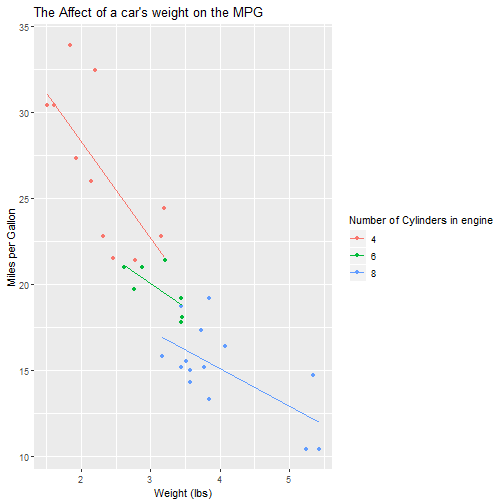
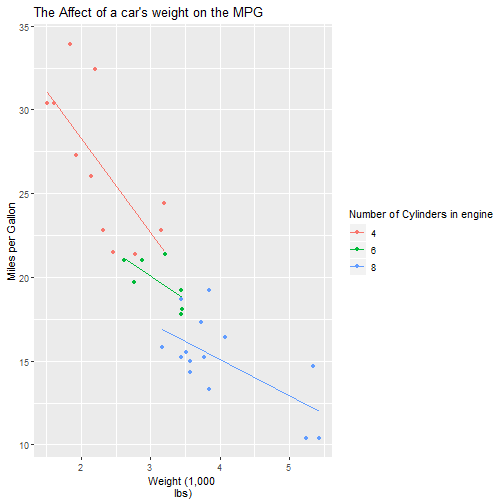
pkgdown png and html files

diff --git a/ggLinearModel/docs/articles/ggLinearModel.html b/ggLinearModel/docs/articles/ggLinearModel.html
@@ -1,0 +1,239 @@
+<!DOCTYPE html>
+<!-- Generated by pkgdown: do not edit by hand --><html lang="en">
+<head>
+<meta http-equiv="Content-Type" content="text/html; charset=UTF-8">
+<meta charset="utf-8">
+<meta http-equiv="X-UA-Compatible" content="IE=edge">
+<meta name="viewport" content="width=device-width, initial-scale=1.0">
+<title>ggLinearModel • ggLinearModel</title>
+<!-- jquery --><script src="https://cdnjs.cloudflare.com/ajax/libs/jquery/3.3.1/jquery.min.js" integrity="sha256-FgpCb/KJQlLNfOu91ta32o/NMZxltwRo8QtmkMRdAu8=" crossorigin="anonymous"></script><!-- Bootstrap --><link rel="stylesheet" href="https://cdnjs.cloudflare.com/ajax/libs/twitter-bootstrap/3.3.7/css/bootstrap.min.css" integrity="sha256-916EbMg70RQy9LHiGkXzG8hSg9EdNy97GazNG/aiY1w=" crossorigin="anonymous">
+<script src="https://cdnjs.cloudflare.com/ajax/libs/twitter-bootstrap/3.3.7/js/bootstrap.min.js" integrity="sha256-U5ZEeKfGNOja007MMD3YBI0A3OSZOQbeG6z2f2Y0hu8=" crossorigin="anonymous"></script><!-- Font Awesome icons --><link rel="stylesheet" href="https://cdnjs.cloudflare.com/ajax/libs/font-awesome/5.7.1/css/all.min.css" integrity="sha256-nAmazAk6vS34Xqo0BSrTb+abbtFlgsFK7NKSi6o7Y78=" crossorigin="anonymous">
+<link rel="stylesheet" href="https://cdnjs.cloudflare.com/ajax/libs/font-awesome/5.7.1/css/v4-shims.min.css" integrity="sha256-6qHlizsOWFskGlwVOKuns+D1nB6ssZrHQrNj1wGplHc=" crossorigin="anonymous">
+<!-- clipboard.js --><script src="https://cdnjs.cloudflare.com/ajax/libs/clipboard.js/2.0.4/clipboard.min.js" integrity="sha256-FiZwavyI2V6+EXO1U+xzLG3IKldpiTFf3153ea9zikQ=" crossorigin="anonymous"></script><!-- headroom.js --><script src="https://cdnjs.cloudflare.com/ajax/libs/headroom/0.9.4/headroom.min.js" integrity="sha256-DJFC1kqIhelURkuza0AvYal5RxMtpzLjFhsnVIeuk+U=" crossorigin="anonymous"></script><script src="https://cdnjs.cloudflare.com/ajax/libs/headroom/0.9.4/jQuery.headroom.min.js" integrity="sha256-ZX/yNShbjqsohH1k95liqY9Gd8uOiE1S4vZc+9KQ1K4=" crossorigin="anonymous"></script><!-- pkgdown --><link href="../pkgdown.css" rel="stylesheet">
+<script src="../pkgdown.js"></script><meta property="og:title" content="ggLinearModel">
+<meta property="og:description" content="">
+<meta name="twitter:card" content="summary">
+<!-- mathjax --><script src="https://cdnjs.cloudflare.com/ajax/libs/mathjax/2.7.5/MathJax.js" integrity="sha256-nvJJv9wWKEm88qvoQl9ekL2J+k/RWIsaSScxxlsrv8k=" crossorigin="anonymous"></script><script src="https://cdnjs.cloudflare.com/ajax/libs/mathjax/2.7.5/config/TeX-AMS-MML_HTMLorMML.js" integrity="sha256-84DKXVJXs0/F8OTMzX4UR909+jtl4G7SPypPavF+GfA=" crossorigin="anonymous"></script><!--[if lt IE 9]>
+<script src="https://oss.maxcdn.com/html5shiv/3.7.3/html5shiv.min.js"></script>
+<script src="https://oss.maxcdn.com/respond/1.4.2/respond.min.js"></script>
+<![endif]-->
+</head>
+<body>
+    <div class="container template-article">
+      <header><div class="navbar navbar-default navbar-fixed-top" role="navigation">
+  <div class="container">
+    <div class="navbar-header">
+      <button type="button" class="navbar-toggle collapsed" data-toggle="collapse" data-target="#navbar" aria-expanded="false">
+        <span class="sr-only">Toggle navigation</span>
+        <span class="icon-bar"></span>
+        <span class="icon-bar"></span>
+        <span class="icon-bar"></span>
+      </button>
+      <span class="navbar-brand">
+        <a class="navbar-link" href="../index.html">ggLinearModel</a>
+        <span class="version label label-default" data-toggle="tooltip" data-placement="bottom" title="Released version">0.1.0</span>
+      </span>
+    </div>
+
+    <div id="navbar" class="navbar-collapse collapse">
+      <ul class="nav navbar-nav">
+<li>
+  <a href="../index.html">
+    <span class="fas fa fas fa-home fa-lg"></span>
+     
+  </a>
+</li>
+<li>
+  <a href="../articles/ggLinearModel.html">Get started</a>
+</li>
+<li>
+  <a href="../reference/index.html">Reference</a>
+</li>
+      </ul>
+<ul class="nav navbar-nav navbar-right"></ul>
+</div>
+<!--/.nav-collapse -->
+  </div>
+<!--/.container -->
+</div>
+<!--/.navbar -->
+
+      
+
+      </header><div class="row">
+  <div class="col-md-9 contents">
+    <div class="page-header toc-ignore">
+      <h1>ggLinearModel</h1>
+                        <h4 class="author">Jack Langston</h4>
+            
+            <h4 class="date">2019-08-12</h4>
+      
+      
+      <div class="hidden name"><code>ggLinearModel.Rmd</code></div>
+
+    </div>
+
+    
+    
+<div id="gglinearmodel" class="section level1">
+<h1 class="hasAnchor">
+<a href="#gglinearmodel" class="anchor"></a>ggLinearModel</h1>
+<p><code>ggLinearModel</code> is a package designed to create easy linear model visualizations in one simple step. Using the <code>ggLinearModel</code> function you can create lots of different types of linear models, including models with:</p>
+<ul>
+<li>the same slope</li>
+<li>the same intercept</li>
+<li>polynomial predictors</li>
+<li>varying number of interaction effects</li>
+<li>confidence, and prediction, intervals, with the ability to change the confidence level</li>
+<li>interactive features to show the equation for LSRL or information about a specific data point.</li>
+</ul>
+</div>
+<div id="old-vs--new" class="section level1">
+<h1 class="hasAnchor">
+<a href="#old-vs--new" class="anchor"></a>Old vs. New</h1>
+<p>Although creating plots in R is super easy thanks to the creation of <code>ggplot()</code>, adding multiple different items to a plot can be complex, and require lots of code. In this section you can view the differences in code required to create different types of linear models and then visualize them.</p>
+<div id="the-full-model" class="section level3">
+<h3 class="hasAnchor">
+<a href="#the-full-model" class="anchor"></a>The full model</h3>
+<p>This model is the easiest to code in <code>ggplot()</code>, the most important part is the <code>geom_smooth(method = lm, ...)</code> which insures that graph adds the least squares regression lines for each category. Using <code><a href="../reference/ggLinearModel.html">ggLinearModel()</a></code> we just input our data table, x variable, y variable, and categorical variable to create the same graph in much less code.</p>
+<div class="sourceCode" id="cb1"><pre class="sourceCode r"><code class="sourceCode r"><span id="cb1-1"><a href="#cb1-1"></a><span class="kw">ggplot</span>(<span class="dt">data =</span> iris, <span class="kw">aes</span>(<span class="dt">x =</span> Sepal.Length, <span class="dt">y =</span> Sepal.Width, <span class="dt">col =</span> Species)) <span class="op">+</span><span class="st"> </span></span>
+<span id="cb1-2"><a href="#cb1-2"></a><span class="st">    </span><span class="kw">geom_point</span>() <span class="op">+</span></span>
+<span id="cb1-3"><a href="#cb1-3"></a><span class="st">    </span><span class="kw">geom_smooth</span>(<span class="dt">method =</span> lm, <span class="dt">se =</span> <span class="ot">FALSE</span>)</span></code></pre></div>
+<p><img src="ggLinearModel_files/figure-html/unnamed-chunk-1-1.png" width="700"></p>
+<div class="sourceCode" id="cb2"><pre class="sourceCode r"><code class="sourceCode r"><span id="cb2-1"><a href="#cb2-1"></a><span class="co">#ggLinearModel(iris, Sepal.Length, Sepal.Width, Species)</span></span></code></pre></div>
+</div>
+<div id="same-slope-model" class="section level3">
+<h3 class="hasAnchor">
+<a href="#same-slope-model" class="anchor"></a>Same slope model</h3>
+<p>Now let’s assume that you want to create a visualization that shows the regression estimates as lines with the same slope, ergo, when there no interaction effect involved. In <code>ggplot()</code> we have no easy way to do this. We must first create model, and instead of one <code>geom_smooth()</code> we must add a new <code>geom_abline()</code> for each level in the dataset, with each <code>geom_abline()</code> having different inputs for the intercept parameter. This is going to get messy quickly with lots of levels in your categorical variable. Using <code><a href="../reference/ggLinearModel.html">ggLinearModel(..., same_slope = TRUE)</a></code> will get the same process done in much less code, and prevents you from making any mistakes when creating each individual <code>geom_abline()</code></p>
+<div class="sourceCode" id="cb3"><pre class="sourceCode r"><code class="sourceCode r"><span id="cb3-1"><a href="#cb3-1"></a>model &lt;-<span class="st"> </span><span class="kw"><a href="https://rdrr.io/r/stats/lm.html">lm</a></span>(Sepal.Width <span class="op">~</span><span class="st"> </span>Sepal.Length <span class="op">+</span><span class="st"> </span>Species, <span class="dt">data =</span> iris)</span>
+<span id="cb3-2"><a href="#cb3-2"></a>m &lt;-<span class="st"> </span>model<span class="op">$</span>coefficients[<span class="dv">2</span>] <span class="co">#slope of model</span></span>
+<span id="cb3-3"><a href="#cb3-3"></a>b &lt;-<span class="st"> </span>model<span class="op">$</span>coefficients[<span class="dv">1</span>] <span class="co">#setosa intercept</span></span>
+<span id="cb3-4"><a href="#cb3-4"></a><span class="kw">ggplot</span>() <span class="op">+</span><span class="st"> </span></span>
+<span id="cb3-5"><a href="#cb3-5"></a><span class="st">    </span><span class="kw">geom_point</span>(<span class="dt">data =</span> iris, <span class="kw">aes</span>(<span class="dt">x =</span> Sepal.Length, <span class="dt">y =</span> Sepal.Width, <span class="dt">col =</span> Species)) <span class="op">+</span></span>
+<span id="cb3-6"><a href="#cb3-6"></a><span class="st">    </span><span class="kw">geom_abline</span>(<span class="kw">aes</span>(<span class="dt">slope =</span> m,</span>
+<span id="cb3-7"><a href="#cb3-7"></a>                <span class="dt">intercept =</span> b, </span>
+<span id="cb3-8"><a href="#cb3-8"></a>                <span class="dt">color =</span> <span class="st">'setosa'</span>)) <span class="op">+</span></span>
+<span id="cb3-9"><a href="#cb3-9"></a><span class="st">    </span><span class="kw">geom_abline</span>(<span class="kw">aes</span>(<span class="dt">slope =</span> m, </span>
+<span id="cb3-10"><a href="#cb3-10"></a>                <span class="dt">intercept =</span> b <span class="op">+</span><span class="st"> </span>model<span class="op">$</span>coefficients[<span class="dv">3</span>], </span>
+<span id="cb3-11"><a href="#cb3-11"></a>                <span class="dt">color =</span> <span class="st">'versicolor'</span>)) <span class="op">+</span></span>
+<span id="cb3-12"><a href="#cb3-12"></a><span class="st">    </span><span class="kw">geom_abline</span>(<span class="kw">aes</span>(<span class="dt">slope =</span> m, </span>
+<span id="cb3-13"><a href="#cb3-13"></a>                <span class="dt">intercept =</span> b <span class="op">+</span><span class="st"> </span>model<span class="op">$</span>coefficients[<span class="dv">4</span>], </span>
+<span id="cb3-14"><a href="#cb3-14"></a>                <span class="dt">color =</span> <span class="st">'virginica'</span>))</span></code></pre></div>
+<p><img src="ggLinearModel_files/figure-html/unnamed-chunk-2-1.png" width="700"></p>
+<div class="sourceCode" id="cb4"><pre class="sourceCode r"><code class="sourceCode r"><span id="cb4-1"><a href="#cb4-1"></a><span class="co">#ggLinearModel(iris, Sepal.Length, Sepal.Width, Species, same_slope = TRUE)</span></span></code></pre></div>
+</div>
+<div id="same-intercept-model" class="section level3">
+<h3 class="hasAnchor">
+<a href="#same-intercept-model" class="anchor"></a>Same intercept model</h3>
+<p>Creating a graph which showcases the data sharing a intercept, but differing slopes, as seen in model with an interaction effect, but not a categorical effect, is complex in <code>ggplot()</code>, but easy in <code><a href="../reference/ggLinearModel.html">ggLinearModel()</a></code> by just adding the <code>same_intercept = TRUE</code> parameter.</p>
+<div class="sourceCode" id="cb5"><pre class="sourceCode r"><code class="sourceCode r"><span id="cb5-1"><a href="#cb5-1"></a>model &lt;-<span class="st"> </span><span class="kw"><a href="https://rdrr.io/r/stats/lm.html">lm</a></span>(Sepal.Width <span class="op">~</span><span class="st"> </span>Sepal.Length <span class="op">+</span><span class="st"> </span>Sepal.Length<span class="op">:</span>Species, <span class="dt">data =</span> iris)</span>
+<span id="cb5-2"><a href="#cb5-2"></a>b &lt;-<span class="st"> </span>model<span class="op">$</span>coefficients[<span class="dv">1</span>] <span class="co">#intercept of model</span></span>
+<span id="cb5-3"><a href="#cb5-3"></a>m &lt;-<span class="st"> </span>model<span class="op">$</span>coefficients[<span class="dv">2</span>] <span class="co">#slope</span></span>
+<span id="cb5-4"><a href="#cb5-4"></a><span class="kw">ggplot</span>(<span class="dt">data =</span> iris, <span class="kw">aes</span>(<span class="dt">x =</span> Sepal.Length, <span class="dt">y =</span> Sepal.Width, <span class="dt">col =</span> Species)) <span class="op">+</span><span class="st"> </span></span>
+<span id="cb5-5"><a href="#cb5-5"></a><span class="st">    </span><span class="kw">geom_point</span>() <span class="op">+</span></span>
+<span id="cb5-6"><a href="#cb5-6"></a><span class="st">    </span><span class="kw">geom_abline</span>(<span class="kw">aes</span>(<span class="dt">intercept =</span> b,</span>
+<span id="cb5-7"><a href="#cb5-7"></a>                    <span class="dt">slope =</span> m,</span>
+<span id="cb5-8"><a href="#cb5-8"></a>                    <span class="dt">color =</span> <span class="st">'setosa'</span>)) <span class="op">+</span></span>
+<span id="cb5-9"><a href="#cb5-9"></a><span class="st">    </span><span class="kw">geom_abline</span>(<span class="kw">aes</span>(<span class="dt">slope =</span> m <span class="op">+</span><span class="st"> </span>model<span class="op">$</span>coefficients[<span class="dv">3</span>], </span>
+<span id="cb5-10"><a href="#cb5-10"></a>                    <span class="dt">intercept =</span> b,</span>
+<span id="cb5-11"><a href="#cb5-11"></a>                    <span class="dt">color =</span> <span class="st">'versicolor'</span>)) <span class="op">+</span></span>
+<span id="cb5-12"><a href="#cb5-12"></a><span class="st">    </span><span class="kw">geom_abline</span>(<span class="kw">aes</span>(<span class="dt">slope =</span> m <span class="op">+</span><span class="st"> </span>model<span class="op">$</span>coefficients[<span class="dv">4</span>], </span>
+<span id="cb5-13"><a href="#cb5-13"></a>                    <span class="dt">intercept =</span> b,</span>
+<span id="cb5-14"><a href="#cb5-14"></a>                    <span class="dt">col =</span> <span class="st">'virginica'</span>))</span></code></pre></div>
+<p><img src="ggLinearModel_files/figure-html/unnamed-chunk-3-1.png" width="700"></p>
+<div class="sourceCode" id="cb6"><pre class="sourceCode r"><code class="sourceCode r"><span id="cb6-1"><a href="#cb6-1"></a><span class="co">#ggLinearModel(iris, Sepal.Length, Sepal.Width, Species, same_intercept = TRUE)</span></span></code></pre></div>
+</div>
+<div id="polynomial-model" class="section level3">
+<h3 class="hasAnchor">
+<a href="#polynomial-model" class="anchor"></a>Polynomial model</h3>
+<p>Using <code><a href="../reference/ggLinearModel.html">ggLinearModel()</a></code> you can make models with any number of polynomial predictors, and with any number of interactions.</p>
+<div class="sourceCode" id="cb7"><pre class="sourceCode r"><code class="sourceCode r"><span id="cb7-1"><a href="#cb7-1"></a>mpg<span class="op">$</span>year &lt;-<span class="st"> </span><span class="kw"><a href="https://rdrr.io/r/base/factor.html">as.factor</a></span>(<span class="kw"><a href="https://rdrr.io/r/base/character.html">as.character</a></span>(mpg<span class="op">$</span>year))</span>
+<span id="cb7-2"><a href="#cb7-2"></a>model &lt;-<span class="st"> </span><span class="kw"><a href="https://rdrr.io/r/stats/lm.html">lm</a></span>(hwy <span class="op">~</span><span class="st"> </span>displ <span class="op">+</span><span class="st"> </span><span class="kw"><a href="https://rdrr.io/r/base/AsIs.html">I</a></span>(displ<span class="op">^</span><span class="dv">2</span>) <span class="op">+</span><span class="st"> </span>displ<span class="op">:</span>year <span class="op">+</span><span class="st"> </span><span class="kw"><a href="https://rdrr.io/r/base/AsIs.html">I</a></span>(displ<span class="op">^</span><span class="dv">2</span>)<span class="op">:</span>year, <span class="dt">data =</span> mpg)</span>
+<span id="cb7-3"><a href="#cb7-3"></a></span>
+<span id="cb7-4"><a href="#cb7-4"></a><span class="kw">ggplot</span>(<span class="dt">data =</span> mpg, <span class="kw">aes</span>(<span class="dt">x =</span> displ, <span class="dt">y =</span> hwy, <span class="dt">col =</span> year)) <span class="op">+</span></span>
+<span id="cb7-5"><a href="#cb7-5"></a><span class="st">    </span><span class="kw">geom_point</span>() <span class="op">+</span></span>
+<span id="cb7-6"><a href="#cb7-6"></a><span class="st">    </span><span class="kw">stat_function</span>(<span class="dt">fun=</span><span class="cf">function</span>(x) </span>
+<span id="cb7-7"><a href="#cb7-7"></a>        model<span class="op">$</span>coefficients[<span class="dv">1</span>] <span class="op">+</span><span class="st"> </span>model<span class="op">$</span>coefficients[<span class="dv">2</span>]<span class="op">*</span>x <span class="op">+</span><span class="st"> </span></span>
+<span id="cb7-8"><a href="#cb7-8"></a><span class="st">            </span>model<span class="op">$</span>coefficients[<span class="dv">3</span>]<span class="op">*</span>x<span class="op">^</span><span class="dv">2</span>, </span>
+<span id="cb7-9"><a href="#cb7-9"></a>        <span class="kw">aes</span>(<span class="dt">col =</span> <span class="st">'1999'</span>)) <span class="op">+</span><span class="st"> </span></span>
+<span id="cb7-10"><a href="#cb7-10"></a><span class="st">    </span><span class="kw">stat_function</span>(<span class="dt">fun=</span><span class="cf">function</span>(x) </span>
+<span id="cb7-11"><a href="#cb7-11"></a>        model<span class="op">$</span>coefficients[<span class="dv">1</span>] <span class="op">+</span><span class="st"> </span>model<span class="op">$</span>coefficients[<span class="dv">2</span>]<span class="op">*</span>x <span class="op">+</span><span class="st"> </span></span>
+<span id="cb7-12"><a href="#cb7-12"></a><span class="st">            </span><span class="kw"><a href="https://rdrr.io/r/base/AsIs.html">I</a></span>(x<span class="op">^</span><span class="dv">2</span>)<span class="op">*</span>model<span class="op">$</span>coefficients[<span class="dv">5</span>]<span class="op">+</span>model<span class="op">$</span>coefficients[<span class="dv">3</span>]<span class="op">*</span>x<span class="op">^</span><span class="dv">2</span> <span class="op">+</span><span class="st"> </span>model<span class="op">$</span>coefficients[<span class="dv">4</span>]<span class="op">*</span>x, </span>
+<span id="cb7-13"><a href="#cb7-13"></a>        <span class="kw">aes</span>(<span class="dt">col =</span> <span class="st">'2008'</span>))</span></code></pre></div>
+<p><img src="ggLinearModel_files/figure-html/unnamed-chunk-4-1.png" width="700"></p>
+<div class="sourceCode" id="cb8"><pre class="sourceCode r"><code class="sourceCode r"><span id="cb8-1"><a href="#cb8-1"></a><span class="co">#ggLinearModel(mpg, displ, hwy, year, poly = 2)</span></span></code></pre></div>
+</div>
+<div id="polynomial-model-with-fewer-interactions" class="section level3">
+<h3 class="hasAnchor">
+<a href="#polynomial-model-with-fewer-interactions" class="anchor"></a>polynomial model with fewer interactions</h3>
+<div class="sourceCode" id="cb9"><pre class="sourceCode r"><code class="sourceCode r"><span id="cb9-1"><a href="#cb9-1"></a>model &lt;-<span class="st"> </span><span class="kw"><a href="https://rdrr.io/r/stats/lm.html">lm</a></span>(hwy <span class="op">~</span><span class="st"> </span>displ <span class="op">+</span><span class="st"> </span><span class="kw"><a href="https://rdrr.io/r/base/AsIs.html">I</a></span>(displ<span class="op">^</span><span class="dv">2</span>) <span class="op">+</span><span class="st"> </span>displ<span class="op">:</span>year, <span class="dt">data =</span> mpg)</span>
+<span id="cb9-2"><a href="#cb9-2"></a></span>
+<span id="cb9-3"><a href="#cb9-3"></a><span class="kw">ggplot</span>(<span class="dt">data =</span> mpg, <span class="kw">aes</span>(<span class="dt">x =</span> displ, <span class="dt">y =</span> hwy, <span class="dt">col =</span> year)) <span class="op">+</span></span>
+<span id="cb9-4"><a href="#cb9-4"></a><span class="st">    </span><span class="kw">geom_point</span>() <span class="op">+</span></span>
+<span id="cb9-5"><a href="#cb9-5"></a><span class="st">    </span><span class="kw">stat_function</span>(<span class="dt">fun=</span><span class="cf">function</span>(x) </span>
+<span id="cb9-6"><a href="#cb9-6"></a>        model<span class="op">$</span>coefficients[<span class="dv">1</span>] <span class="op">+</span><span class="st"> </span>model<span class="op">$</span>coefficients[<span class="dv">2</span>]<span class="op">*</span>x <span class="op">+</span><span class="st"> </span></span>
+<span id="cb9-7"><a href="#cb9-7"></a><span class="st">            </span>model<span class="op">$</span>coefficients[<span class="dv">3</span>]<span class="op">*</span>x<span class="op">^</span><span class="dv">2</span>, </span>
+<span id="cb9-8"><a href="#cb9-8"></a>        <span class="kw">aes</span>(<span class="dt">col =</span> <span class="st">'1999'</span>)) <span class="op">+</span><span class="st"> </span></span>
+<span id="cb9-9"><a href="#cb9-9"></a><span class="st">    </span><span class="kw">stat_function</span>(<span class="dt">fun=</span><span class="cf">function</span>(x) </span>
+<span id="cb9-10"><a href="#cb9-10"></a>        model<span class="op">$</span>coefficients[<span class="dv">1</span>] <span class="op">+</span><span class="st"> </span>model<span class="op">$</span>coefficients[<span class="dv">2</span>]<span class="op">*</span>x <span class="op">+</span><span class="st"> </span></span>
+<span id="cb9-11"><a href="#cb9-11"></a><span class="st">            </span><span class="kw"><a href="https://rdrr.io/r/base/AsIs.html">I</a></span>(x<span class="op">^</span><span class="dv">2</span>)<span class="op">*</span>model<span class="op">$</span>coefficients[<span class="dv">3</span>] <span class="op">+</span><span class="st"> </span>model<span class="op">$</span>coefficients[<span class="dv">4</span>]<span class="op">*</span>x, </span>
+<span id="cb9-12"><a href="#cb9-12"></a>        <span class="kw">aes</span>(<span class="dt">col =</span> <span class="st">'2008'</span>))</span></code></pre></div>
+<p><img src="ggLinearModel_files/figure-html/unnamed-chunk-5-1.png" width="700"></p>
+<div class="sourceCode" id="cb10"><pre class="sourceCode r"><code class="sourceCode r"><span id="cb10-1"><a href="#cb10-1"></a><span class="co">#ggLinearModel(mpg, displ, hwy, year, poly = 2, interactions = 1)</span></span></code></pre></div>
+</div>
+</div>
+<div id="added-features" class="section level1">
+<h1 class="hasAnchor">
+<a href="#added-features" class="anchor"></a>Added Features</h1>
+<div id="confidence-interval-and-prediction-interval" class="section level3">
+<h3 class="hasAnchor">
+<a href="#confidence-interval-and-prediction-interval" class="anchor"></a>confidence interval and prediction interval</h3>
+<p>Setting ci or pi to TRUE will add a confidence interval, and setting level to a number between 0 and 1 will change the confidence level of the interval.</p>
+<div class="sourceCode" id="cb11"><pre class="sourceCode r"><code class="sourceCode r"><span id="cb11-1"><a href="#cb11-1"></a><span class="co">#ggLinearModel(CO2, conc, uptake, Type, ci = T)</span></span>
+<span id="cb11-2"><a href="#cb11-2"></a><span class="co">#ggLinearModel(CO2, conc, uptake, Type, pi = T)</span></span>
+<span id="cb11-3"><a href="#cb11-3"></a><span class="co">#ggLinearModel(CO2, conc, uptake, Type, pi = T, level = .5)</span></span></code></pre></div>
+</div>
+<div id="label-name-changing" class="section level3">
+<h3 class="hasAnchor">
+<a href="#label-name-changing" class="anchor"></a>Label name changing</h3>
+<p>Although <code><a href="../reference/ggLinearModel.html">ggLinearModel()</a></code> will return a <code>ggplot</code> object you can still add a title, x-axis label, y-axis label, and legend title within <code><a href="../reference/ggLinearModel.html">ggLinearModel()</a></code></p>
+<div class="sourceCode" id="cb12"><pre class="sourceCode r"><code class="sourceCode r"><span id="cb12-1"><a href="#cb12-1"></a><span class="co">#ggLinearModel(mtcars, wt, mpg, cyl, </span></span>
+<span id="cb12-2"><a href="#cb12-2"></a>              <span class="co">#title = "The Affect of a car's weight on the MPG", xlabel = 'Weight (lbs)', </span></span>
+<span id="cb12-3"><a href="#cb12-3"></a>              <span class="co">#ylabel = 'Miles per Gallon', legendTitle = 'Number of Cylinders in engine')</span></span></code></pre></div>
+</div>
+</div>
+  </div>
+
+  <div class="col-md-3 hidden-xs hidden-sm" id="sidebar">
+        <div id="tocnav">
+      <h2 class="hasAnchor">
+<a href="#tocnav" class="anchor"></a>Contents</h2>
+      <ul class="nav nav-pills nav-stacked">
+<li><a href="#gglinearmodel">ggLinearModel</a></li>
+      <li><a href="#old-vs--new">Old vs. New</a></li>
+      <li><a href="#added-features">Added Features</a></li>
+      </ul>
+</div>
+      </div>
+
+</div>
+
+
+
+      <footer><div class="copyright">
+  <p>Developed by Jack Langston.</p>
+</div>
+
+<div class="pkgdown">
+  <p>Site built with <a href="https://pkgdown.r-lib.org/">pkgdown</a> 1.3.0.9100.</p>
+</div>
+
+      </footer>
+</div>
+
+  
+
+
+  </body>
+</html>

diff --git a/ggLinearModel/vignettes/ggLinearModel.html b/ggLinearModel/vignettes/ggLinearModel.html
@@ -364,11 +364,12 @@ ggplot(data = mpg, aes(x = displ, y = hwy, col = year)) +
 <p>Although <code>ggLinearModel()</code> will return a <code>ggplot</code> object you can still add a title, x-axis label, y-axis label, and legend title within <code>ggLinearModel()</code></p>
 
 <pre><code class="r">ggLinearModel(mtcars, wt, mpg, cyl, 
-              title = &quot;The Affect of a car&#39;s weight on the MPG&quot;, xlabel = &#39;Weight (lbs)&#39;, 
+              title = &quot;The Affect of a car&#39;s weight on the MPG&quot;, xlabel = &#39;Weight (1,000 
+lbs)&#39;, 
               ylabel = &#39;Miles per Gallon&#39;, legendTitle = &#39;Number of Cylinders in engine&#39;)
 </code></pre>
 
[2 lines of base64/hex data omitted]
 
 </body>
 

diff --git a/ggLinearModel/vignettes/ggLinearModel.md b/ggLinearModel/vignettes/ggLinearModel.md
@@ -1,7 +1,7 @@
 ---
 title: "ggLinearModel"
 author: "Jack Langston"
-date: "2019-08-11"
+date: "2019-08-12"
 output: rmarkdown::html_vignette
 vignette: >
   %\VignetteIndexEntry{ggLinearModel}
@@ -179,7 +179,8 @@ Although `ggLinearModel()` will return a `ggplot` object you can still add a tit
 
 ```r
 ggLinearModel(mtcars, wt, mpg, cyl, 
-              title = "The Affect of a car's weight on the MPG", xlabel = 'Weight (lbs)', 
+              title = "The Affect of a car's weight on the MPG", xlabel = 'Weight (1,000 
+lbs)', 
               ylabel = 'Miles per Gallon', legendTitle = 'Number of Cylinders in engine')
 ```
 
